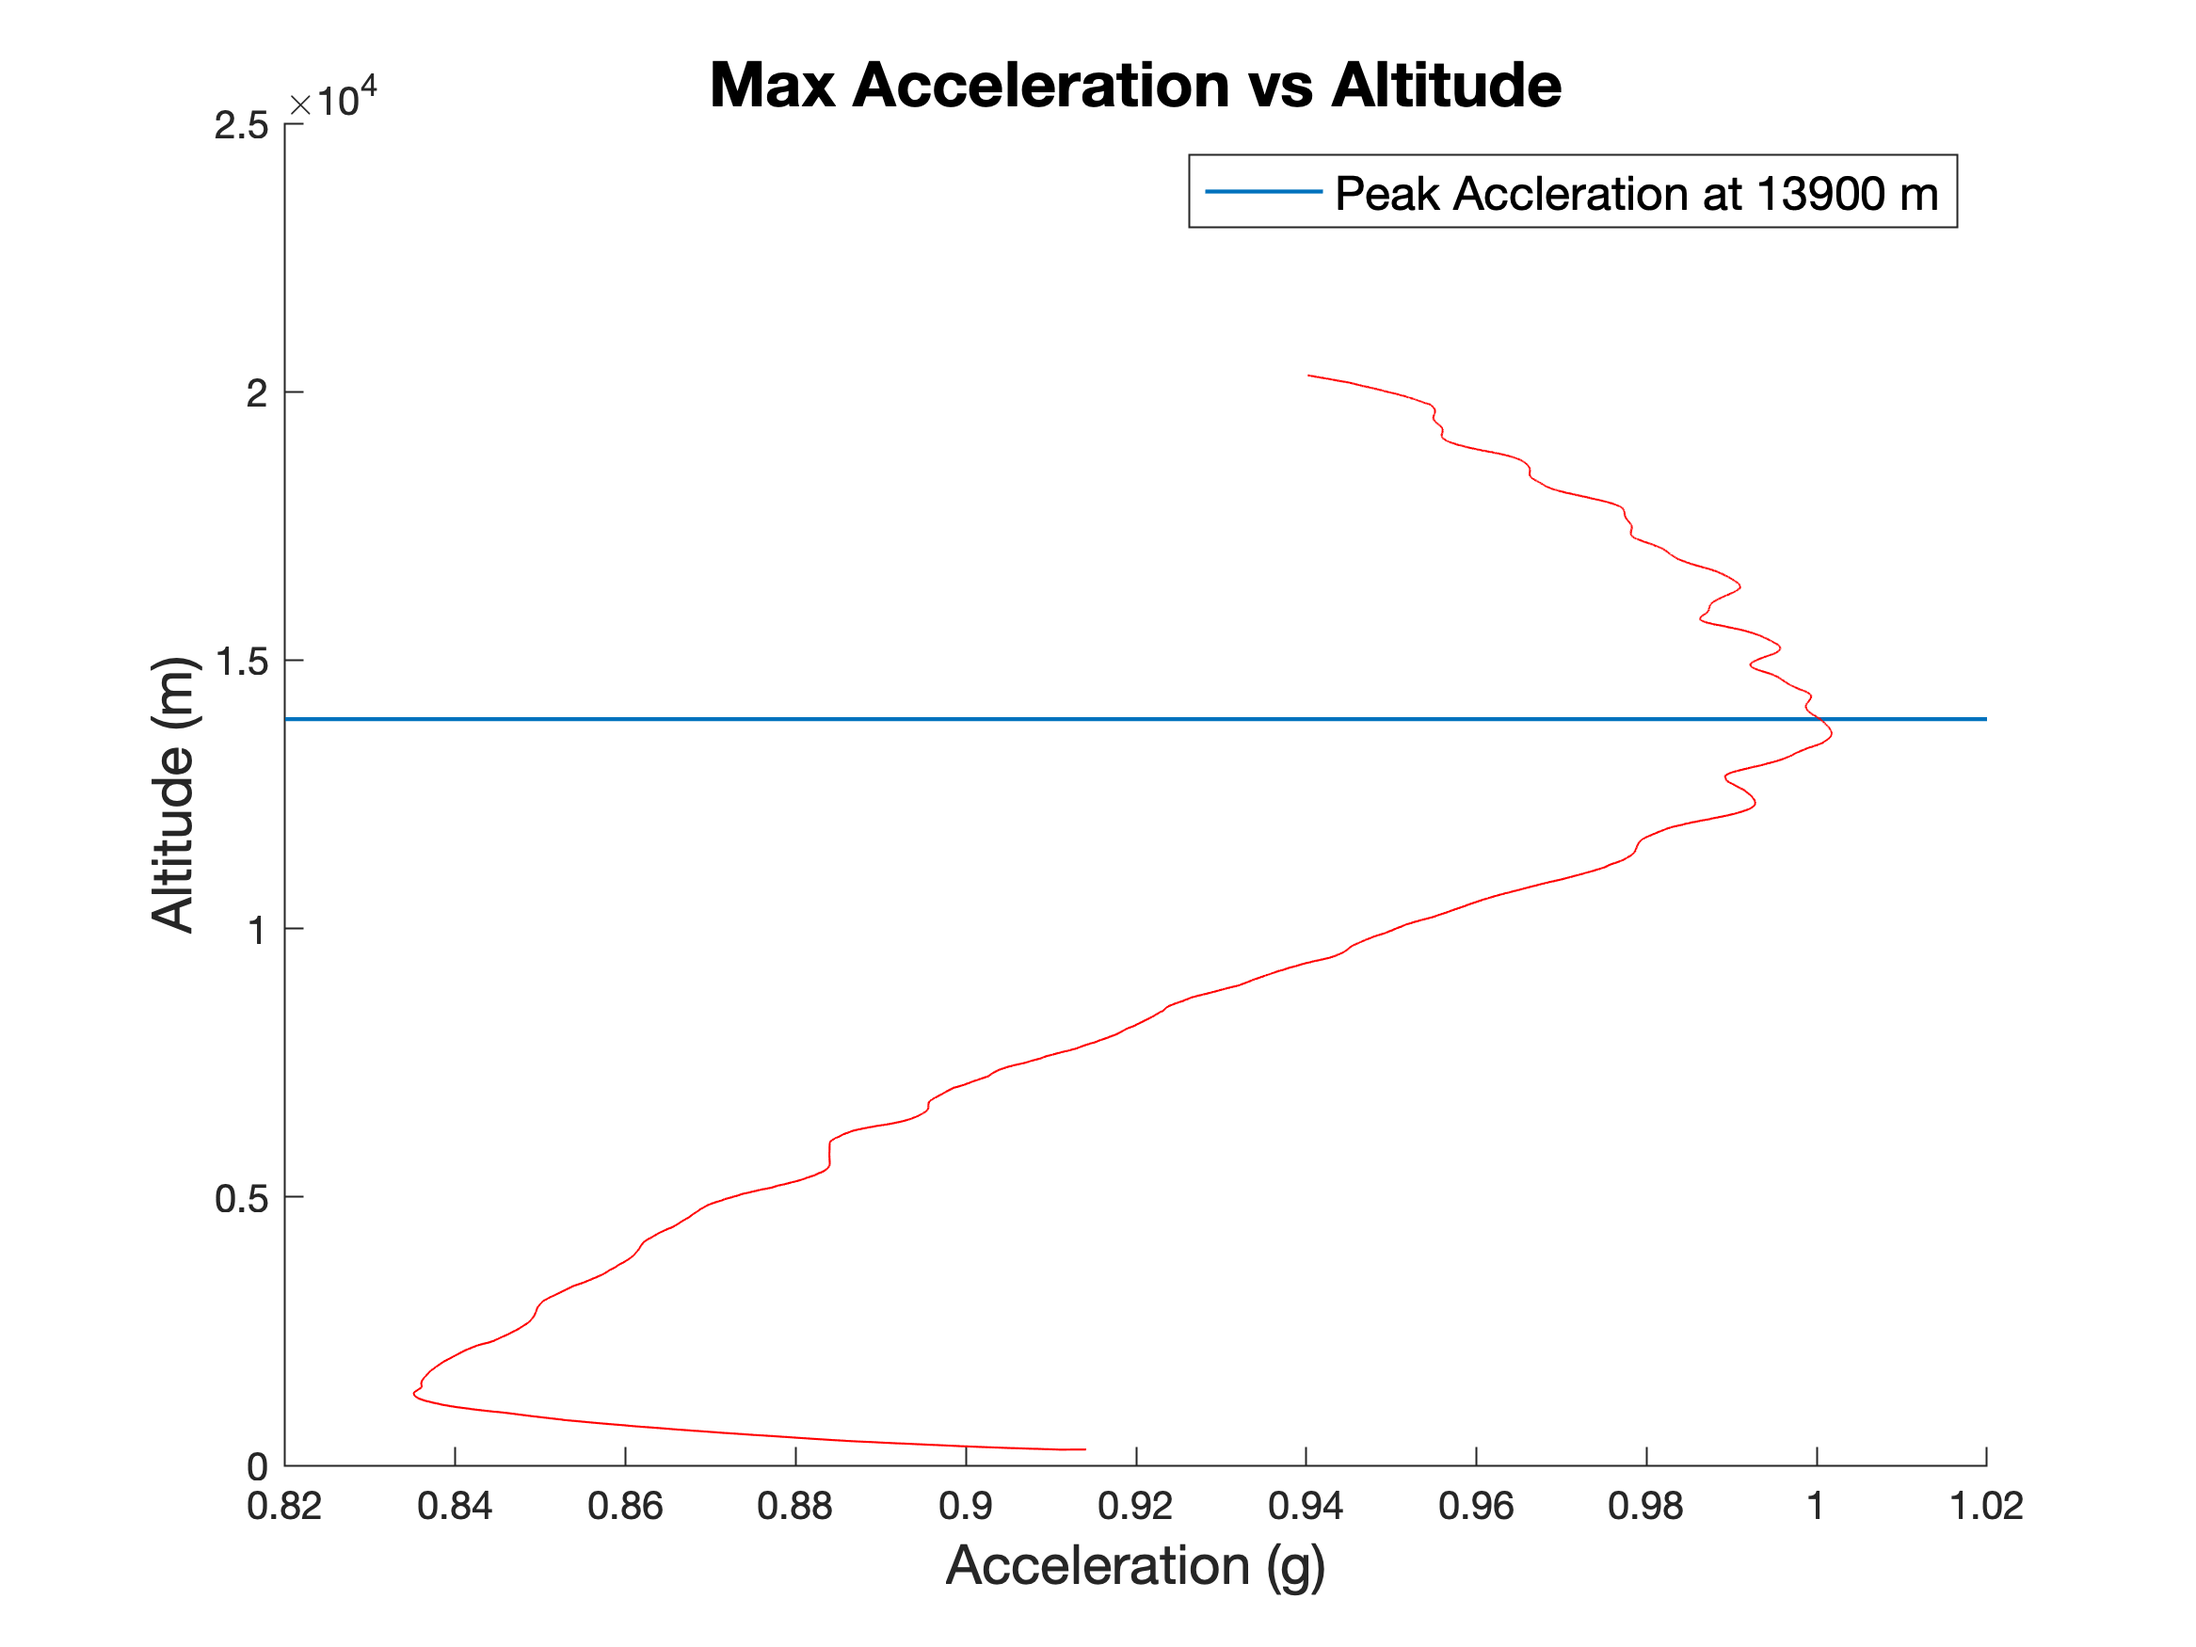
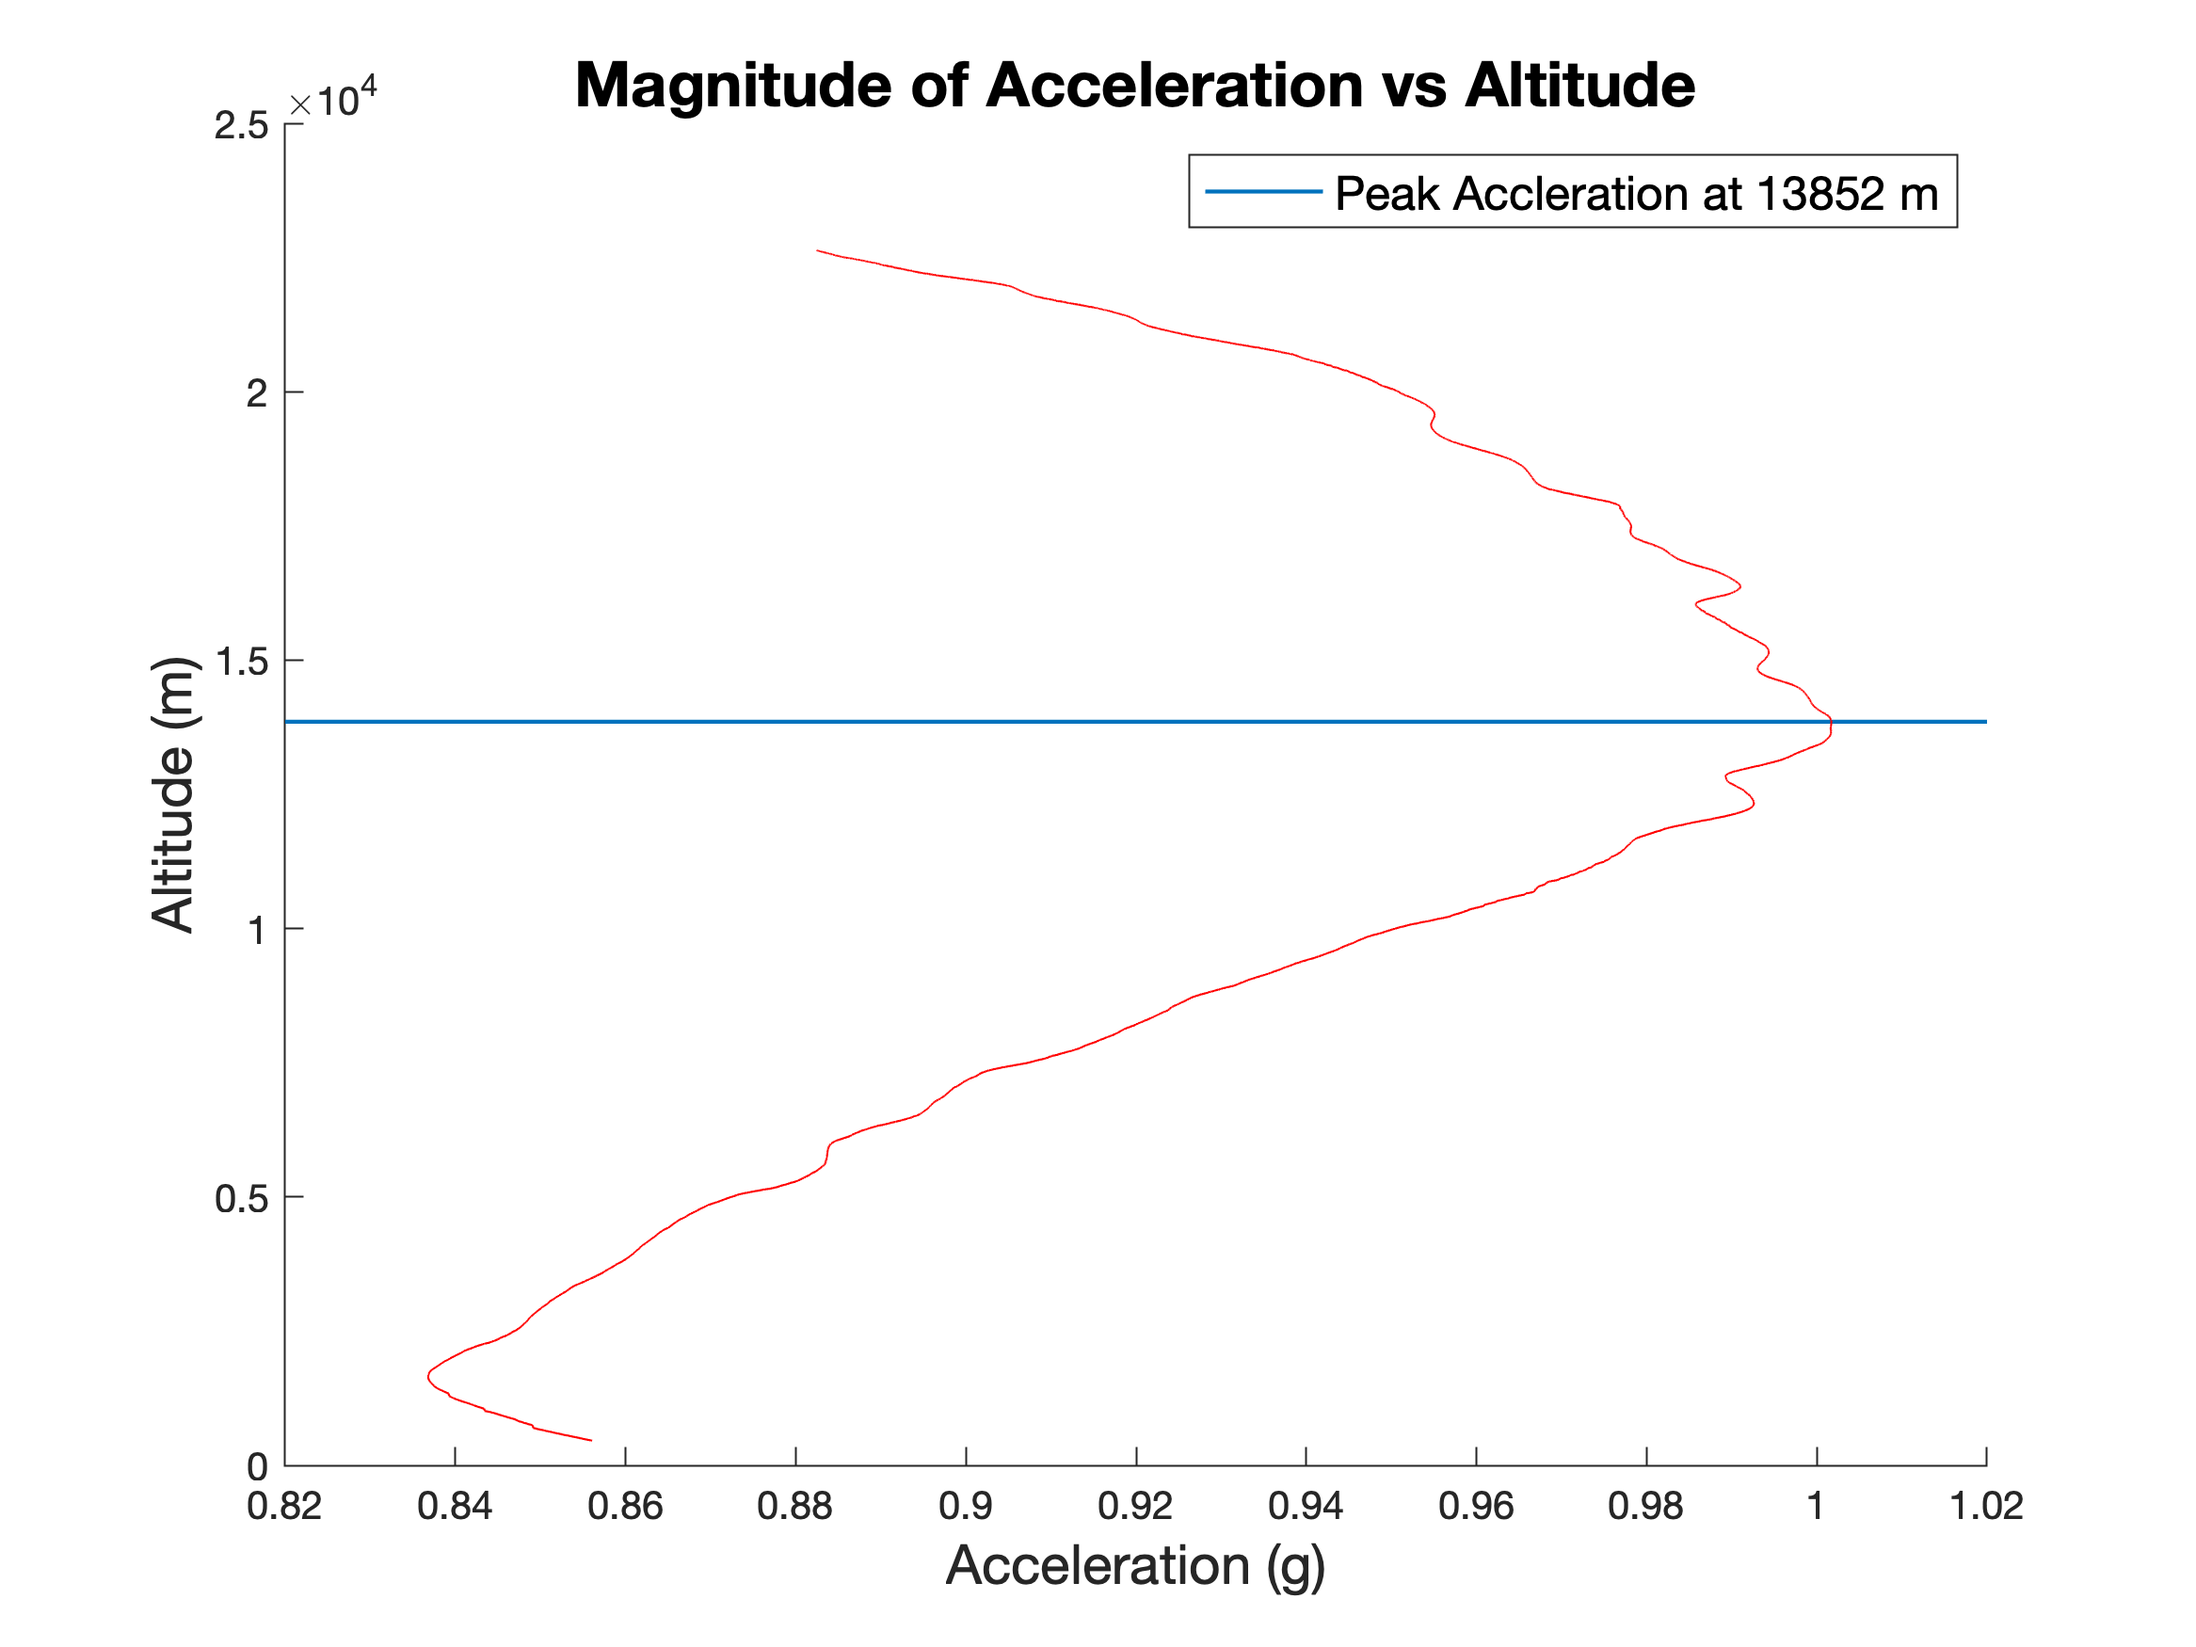
added acc values

diff --git a/MATLAB/post_process/acceleration_plots.m b/MATLAB/post_process/acceleration_plots.m
@@ -12,24 +12,22 @@ smooth_x = smooth(acc(300:7000,1), 500,'loess');
 smooth_y = smooth(acc(300:7000,2), 500,'loess');
 smooth_z = smooth(acc(300:7000,3), 500,'loess');
 
-% while (std(smooth_x) > 1 && std(smooth_y) > 1 && std(smooth_z) > 1) 
-%    smooth_x = sgolayfilt(smooth_x, 2, 19);
-%    smooth_y = sgolayfilt(smooth_y, 2, 19);
-%    smooth_z = sgolayfilt(smooth_z, 2, 19);
-% end
-
 acceleration = sqrt((smooth_x).^2 + (smooth_y).^2 + (smooth_z).^2);
 
+mean_acc = mean(acceleration);
+std_acc = std(acceleration);
+
+% Max acceleration at 1.0017 g at 13058 m
 figure()
 hold on
-line([0.82 1.02],[13900 13900],'LineWidth',1)
+line([0.82 1.02],[13852 13852],'LineWidth',1)
 plot(acceleration, altitude(300:7000), '-r');
 hold off
 xlim([0.82 1.02]);
 xlabel({"\fontsize{14}Acceleration (g)"}, 'FontSize', 14);
 ylabel("\fontsize{14}Altitude (m)", 'FontSize', 14);
-legend("\fontsize{12}Peak Accleration at 13900 m");
-title("\fontsize{16}Max Acceleration vs Altitude");
+legend("\fontsize{12}Peak Accleration at 13852 m");
+title("\fontsize{16}Magnitude of Acceleration vs Altitude");
 print("MaxAcceleration", "-dpng", "-r300");
 
 %% Smoothed Acceleration Minus Non Smoothed
@@ -57,21 +55,22 @@ hold on
 % plot(time, mag_smooth, '-b');
 
 % flight ascencsion
-ax1 = subplot(2,1,1);
-plot(difference_smooth(500:8000), altitude(500:8000), '-b', 'LineWidth',1);
+ax1 = subplot(1,2,1);
+subplot(1,2,1);
+plot(difference_smooth(500:8000), altitude(500:8000), '-r', 'LineWidth',1);
 xlim([-.25 .25]);
-title("\fontsize{16}Difference in Smoothed vs. Unsmoothed Acceleration vs. Altitude on Ascent");
+title("\fontsize{16}During Ascent");
 ylabel("\fontsize{14}Altitude (m)");
 xlabel("\fontsize{14}Acceleration Difference (g)");
 
-ax2 = subplot(2,1,1);
-subplot(2,1,2);
+ax2 = subplot(1,2,2);
+subplot(1,2,2);
 difference_smooth = smooth(difference_smooth, 200,'loess');
 plot(difference_smooth(8000:max_time), altitude(8000:max_time), '-r', 'LineWidth',2);
-line([-0.05 0.45],[18007 18007], 'LineWidth',1);
-line([-0.05 0.45],[10700 10700],'LineWidth',1);
+% line([-0.05 0.45],[18007 18007], 'LineWidth',1);
+% line([-0.05 0.45],[10700 10700],'LineWidth',1);
 xlim([-.05 .45]);
-title("\fontsize{16}Difference in Smoothed vs. Unsmoothed Acceleration vs. Altitude on Descent");
+title("\fontsize{16}During Descent")
 ylabel("\fontsize{14}Altitude (m)");
 xlabel("\fontsize{14}Acceleration Difference (g)");
 hold off
